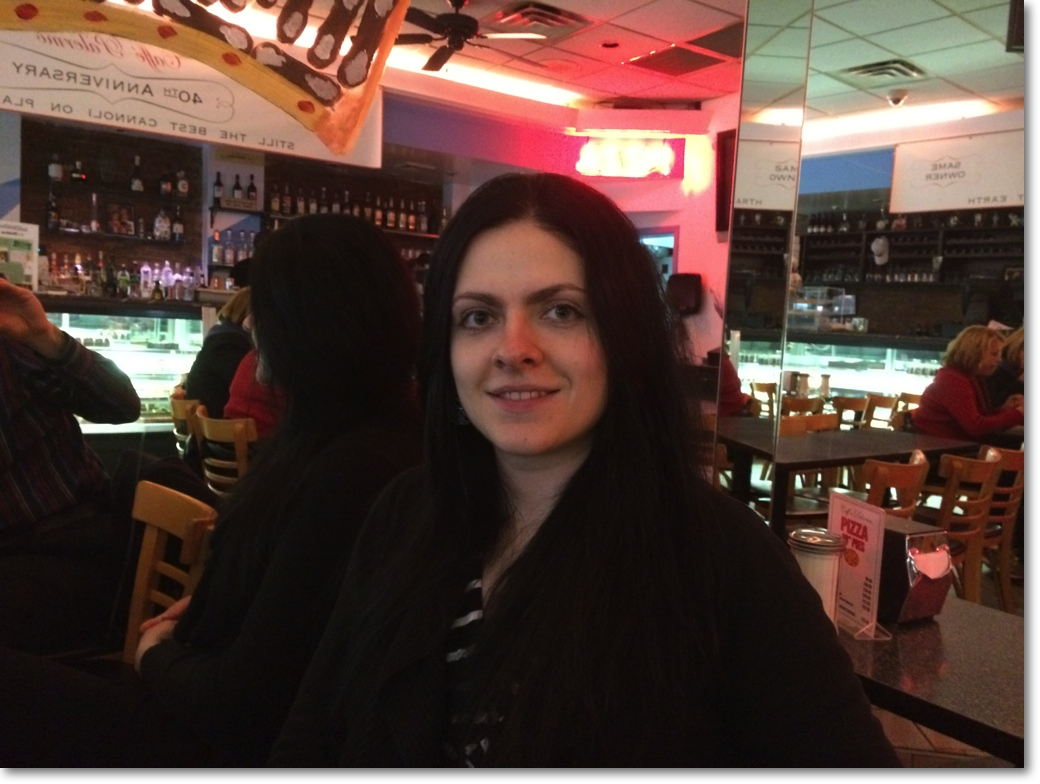
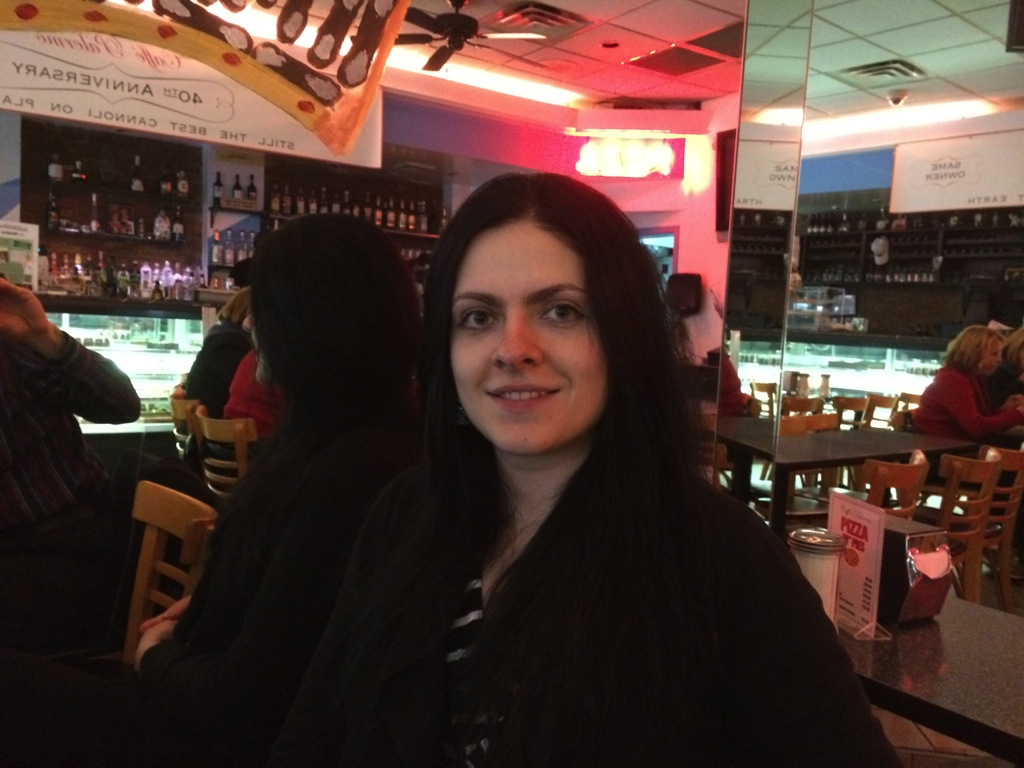
Fixed up text shadows and outlines.  Replaced hard shadow in images with CSS one

Changed region(s): [[0.0, 0.0, 1.0, 1.0], [0.0625, 0.2188, 0.0938, 0.25]]

diff --git a/aliona-citizenship/index.html b/aliona-citizenship/index.html
@@ -7,17 +7,25 @@ body
 {
 background-image:url('images/star_background_darkened.jpg');
 background-repeat:repeat-xy;
-color:#DD3333;
+color:#CC3333;
+}
+span {
 font-weight:bold;
-text-shadow: -2px 0 black, 0 2px black, 2px 0 black, 0 -2px black;
+text-shadow: 
+   -2px -2px 0 #000,
+    2px -2px 0 #000,
+    -2px 2px 0 #000,
+    2px 2px 0 #000,
+    0.2em 0.2em 0.4em black;
 letter-spacing:1px;
 font-size:150%
 }
+img {box-shadow: 10px 10px 5px #303030;
 </style>
 </head>
 <body>
-<div style="text-align: center; font-family: Helvetica,Arial,sans-serif;"><big><big><big>
-Aliona Becomes a U.S. Citizen - April 4, 2014</big></big></big><br>
+<div style="text-align: center;"><big><big><big>
+        <span>Aliona Becomes a U.S. Citizen - April 4, 2014</span></big></big></big><br>
 <br>
 <br>
 <br>
